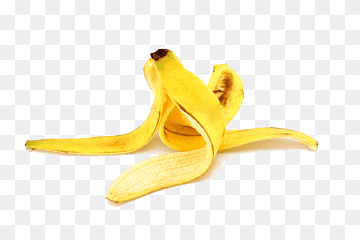
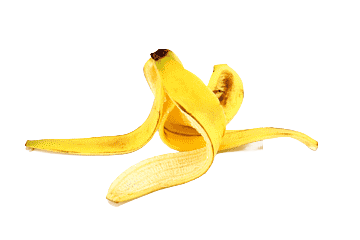
kulit pisang

diff --git a/src/templates/beranda.html b/src/templates/beranda.html
@@ -111,7 +111,7 @@
     <main class="container mt-5">
       <div class="row content-row">
         <div class="col-md-6">
-          <img id="imageBanner" src="../public/img/banana.png" class="content-img card" alt="Image" />
+          <img id="imageBanner" src="../public/img/kulit-pisang.png" alt="Image" />
         </div>
         <div class="col-md-3 mt-4">
           <h2>Kulit Pisang</h2>
